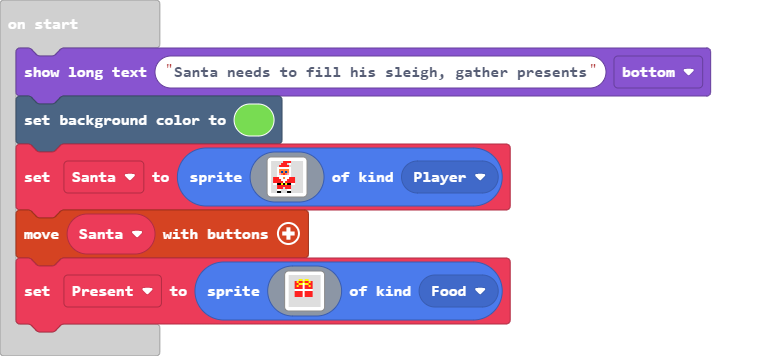
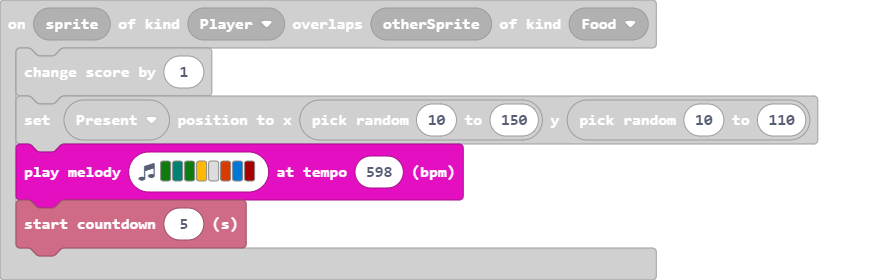
Update main.blocks, main.ts

diff --git a/main.ts b/main.ts
@@ -1,6 +1,7 @@
 sprites.onOverlap(SpriteKind.Player, SpriteKind.Food, function (sprite, otherSprite) {
     info.changeScoreBy(1)
     Present.setPosition(randint(10, 150), randint(10, 110))
+    music.playMelody("G F G A - B E C5 ", 598)
     info.startCountdown(5)
 })
 let Present: Sprite = null
